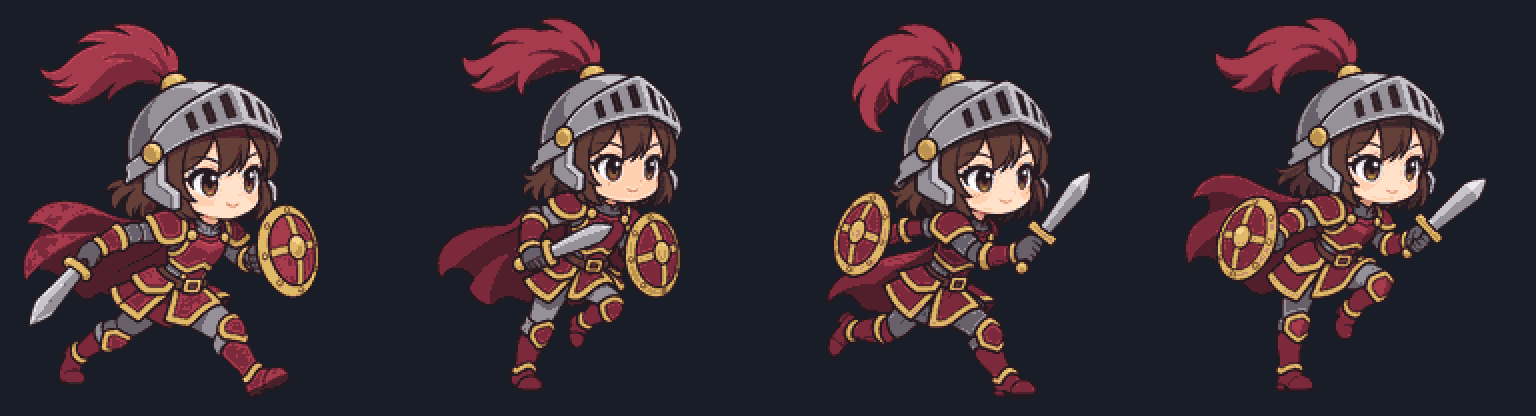
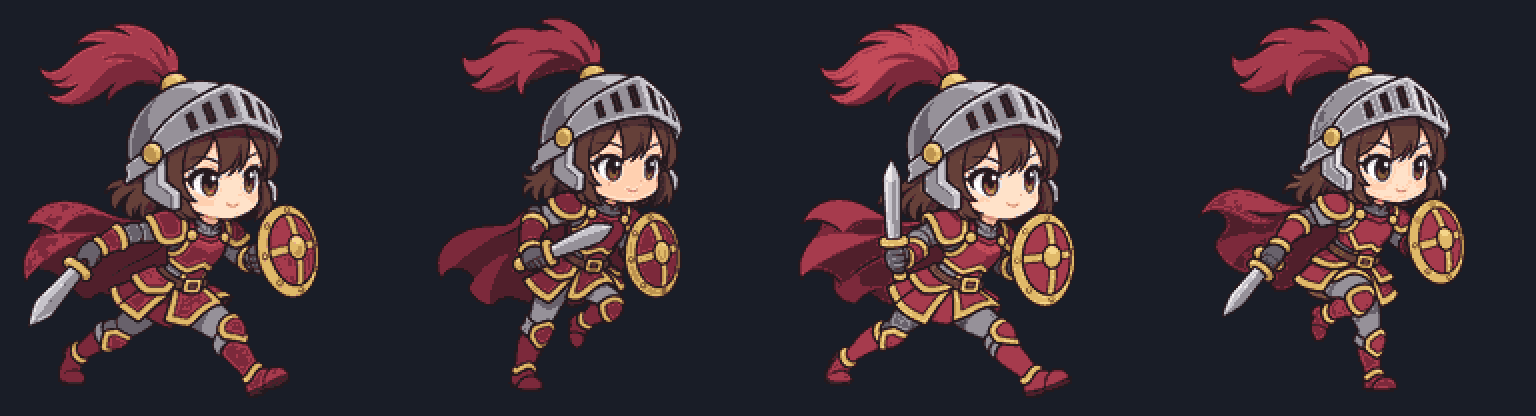
pet: fix weapon hand swap in the chibi-knight run cycle (rows 1/2/3/5)

Changed region(s): [[0.5, 0.0625, 0.7188, 0.9688], [0.75, 0.0312, 0.9688, 0.9375]]

diff --git a/pets/chibi-knight/_build/check-handedness.py b/pets/chibi-knight/_build/check-handedness.py
@@ -1,0 +1,39 @@
+from pathlib import Path
+import sys,hashlib,json
+sys.path.insert(0,str(Path(__file__).parent/'_vendor'))
+from PIL import Image
+b=Path(__file__).resolve().parent; p=b.parent
+im=Image.open(p/'spritesheet.webp'); before=json.loads((b/'handedness-before.json').read_text())
+lines=['Sheet: '+str(im.size)+' '+im.mode,'Gold test: y in [90,170); exclude x in [85,107); r>185, 110<g<200, b<115, alpha>0.']
+assert im.size==(1536,2288) and im.mode=='RGBA'
+for row in [0,2,6]:
+    counts=[]
+    for f in range(8):
+        frame=im.crop((f*192,row*208,(f+1)*192,(row+1)*208)); sides=[0,0]
+        for y in range(90,170):
+            for x in range(192):
+                if 85<=x<107: continue
+                r,g,blue,a=frame.getpixel((x,y))
+                if a and r>185 and 110<g<200 and blue<115: sides[x>=107]+=1
+        counts.append(sides)
+    letters=['R' if r>l else 'L' if l>r else '=' for l,r in counts]
+    lines += [f'row {row}: '+ ' '.join(letters), '  [L,R]: '+str(counts)]
+    assert letters==['R']*8
+for row in [0,2,6,9]:
+    counts=[sum(v>0 for v in im.crop((f*192,row*208,(f+1)*192,(row+1)*208)).getchannel('A').tobytes()) for f in range(8)]
+    assert min(counts)>0
+    lines.append(f'row {row} nonempty alpha counts: {counts}')
+lines.append('SHA-256 over decoded RGBA row bands (before -> after):')
+for row in [0,4,6,7,8,9,10]:
+    old=before['rows'][str(row)]; new=hashlib.sha256(im.crop((0,row*208,1536,(row+1)*208)).tobytes()).hexdigest()
+    assert old==new
+    lines.append(f'row {row}: {old} -> {new} MATCH')
+for name,old in before['files'].items(): assert hashlib.sha256((p/name).read_bytes()).hexdigest()==old
+lines.append('14 unaffected original/normalized pose files: byte-for-byte unchanged. compose.py and anchors unchanged.')
+# Actual full eight-frame row strip for visual inspection.
+strip=Image.new('RGBA',(1536,208),(25,29,39,255));strip.alpha_composite(im.crop((0,416,1536,624)))
+strip.save(b/'run-row2-review.png')
+contact=Image.new('RGBA',(768,208),(25,29,39,255))
+for i,f in enumerate([0,2,4,6]): contact.alpha_composite(im.crop((192*f,416,192*(f+1),624)),(i*192,0))
+contact.resize((1536,416),Image.Resampling.NEAREST).save(b/'run-review.png')
+text='\n'.join(lines)+'\n';(b/'handedness-check.txt').write_text(text);print(text)
